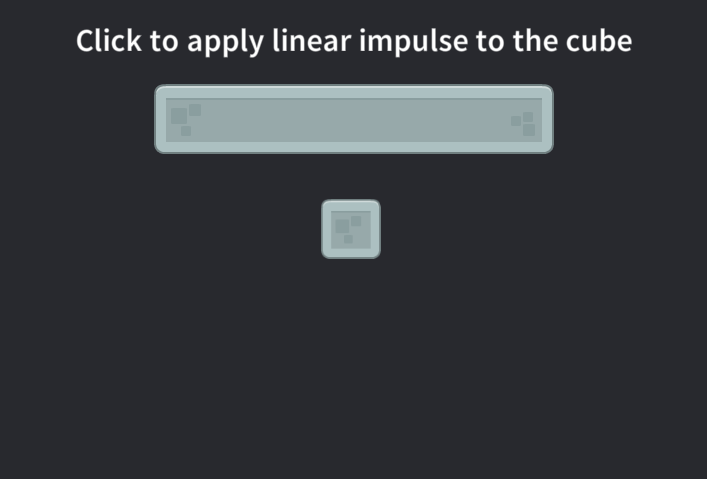
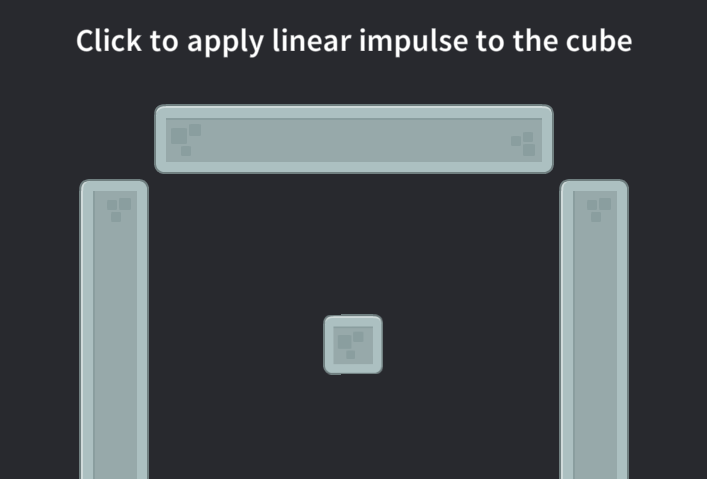
Fixed linear impulse example

diff --git a/physics/apply_linear_impulse/example.md b/physics/apply_linear_impulse/example.md
@@ -3,7 +3,7 @@ tags: physics
 title: Apply Linear Impulse
 brief: Apply a linear impulse to a dynamic physics body on click or touch.
 author: JuLongZhiLu(巨龙之路)
-scripts: cube.script
+scripts: apply_linear_impulse.script
 thumbnail: thumbnail.png
 ---
 
@@ -17,12 +17,12 @@ This example shows how a Box2D body can be pushed instantly with a linear impuls
 
 ## Setup
 
-The collection contains a cube game object with a sprite, a dynamic collision object, and `/example/cube.script`. A static platform collision object catches the cube after the impulse. The project enables fixed-step physics and uses Box2D through Defold's built-in `b2d` API.
+The collection contains a cube game object with a sprite, a dynamic collision object, and `/example/apply_linear_impulse.script`. A static platform collision object catches the cube after the impulse. The project enables fixed-step physics and uses Box2D through Defold's built-in `b2d` API.
 
 ![setup](setup.webp)
 
 ## How It Works
 
-The script acquires input focus and listens for the built-in `touch` action. When the player clicks or touches the screen, it gets the cube's Box2D body, reads the body's current world position, and applies an upward linear impulse at that point.
+The script acquires input focus and listens for the built-in `touch` action. When the player clicks or touches the screen, it gets the cube's Box2D body, reads the body's current center of mass, and applies an upward linear impulse at that point.
 
 Read more about the [Box2D API here](https://defold.com/ref/stable/b2d-lua/).